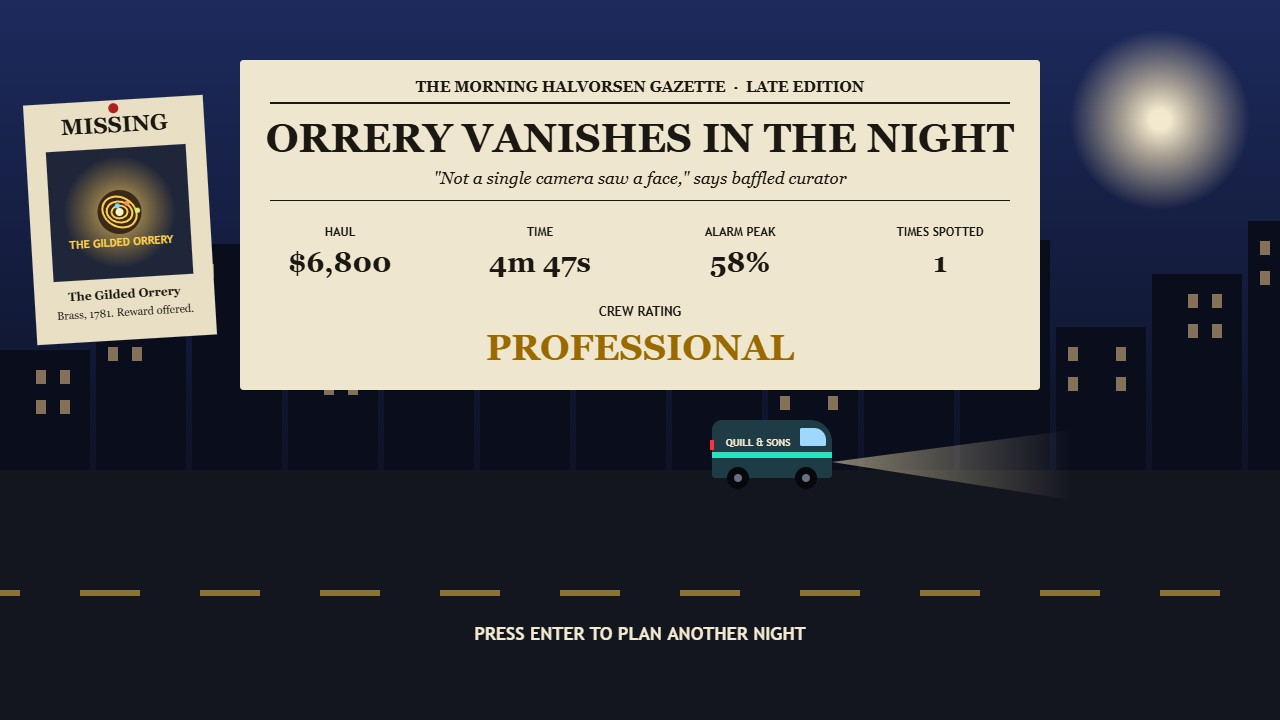
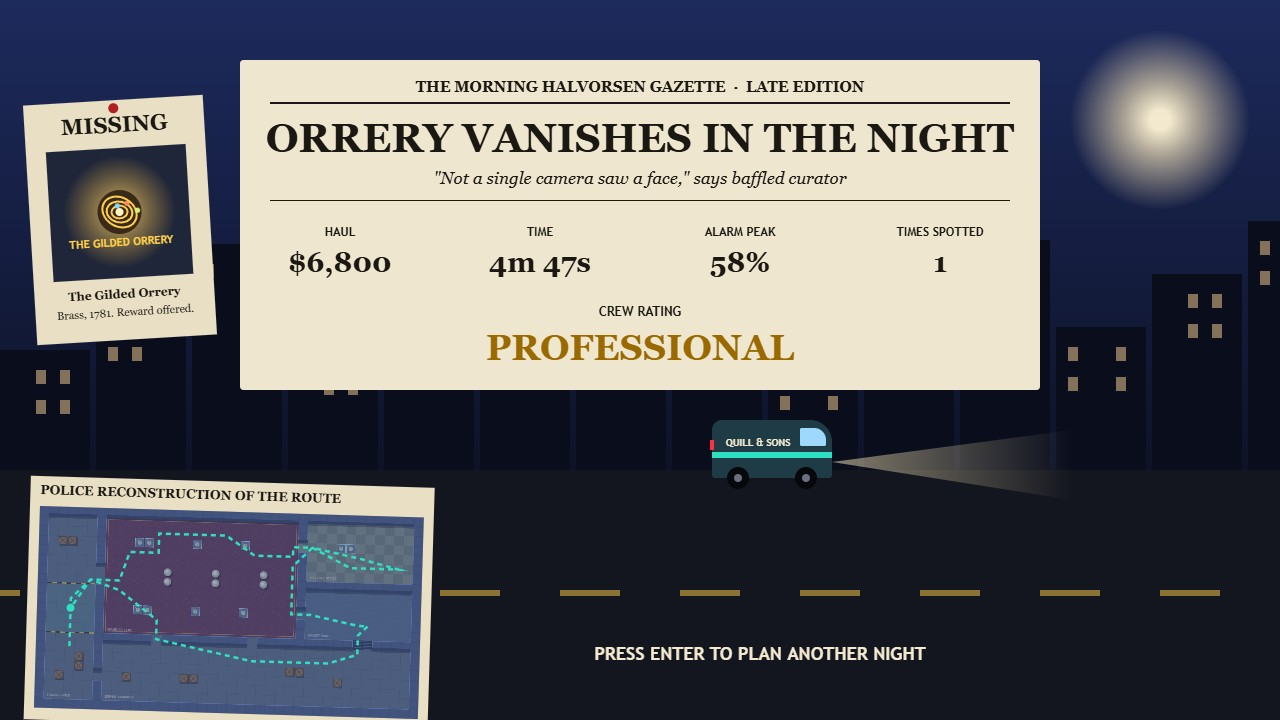
End screen: police reconstruction of the route walked

Changed region(s): [[0.0, 0.6417, 0.3438, 1.0], [0.375, 0.8556, 0.7188, 0.9167]]

diff --git a/game/src/render/screens.js b/game/src/render/screens.js
@@ -206,6 +206,42 @@ function drawShop(g, loadout) {
   return buttons;
 }
 
+/** The police reconstruction: a small blueprint with the route the thief really walked tonight. */
+function drawReconstruction(g, floorplan, trail, x, y) {
+  const s = 0.3;
+  const w = floorplan.width * s;
+  const h = floorplan.height * s;
+  g.save();
+  g.translate(x, y);
+  g.rotate(0.03);
+  g.fillStyle = '#e9dfc4';
+  g.fillRect(-10, -30, w + 20, h + 42);
+  g.fillStyle = '#1b1712';
+  g.font = 'bold 13px Georgia, serif';
+  g.textAlign = 'left';
+  g.fillText('POLICE RECONSTRUCTION OF THE ROUTE', 0, -12);
+  g.globalAlpha = 0.85;
+  g.drawImage(floorplan, 0, 0, w, h);
+  g.globalAlpha = 1;
+  g.fillStyle = 'rgba(20,60,140,0.35)';
+  g.fillRect(0, 0, w, h);
+  if (trail.length > 1) {
+    g.strokeStyle = '#2fe0c0';
+    g.lineWidth = 2.5;
+    g.setLineDash([5, 4]);
+    g.beginPath();
+    trail.forEach((p, i) => (i ? g.lineTo(p.x * s, p.y * s) : g.moveTo(p.x * s, p.y * s)));
+    g.stroke();
+    g.setLineDash([]);
+    const end = trail[trail.length - 1];
+    g.fillStyle = '#2fe0c0';
+    g.beginPath();
+    g.arc(end.x * s, end.y * s, 4, 0, Math.PI * 2);
+    g.fill();
+  }
+  g.restore();
+}
+
 /** A pinned police bulletin with the Orrery on it: MISSING if it got away, RECOVERED if not. */
 function drawMissingPoster(g, cx, cy, time, missing) {
   g.save();
@@ -233,7 +269,7 @@ function drawMissingPoster(g, cx, cy, time, missing) {
 }
 
 /** The morning edition: headline, the night's numbers and the rating. */
-export function drawEnd(g, score, reason, time) {
+export function drawEnd(g, score, reason, time, floorplan, trail) {
   g.fillStyle = '#0b0f1e';
   g.fillRect(0, 0, VIEW.width, VIEW.height);
   const sky = g.createLinearGradient(0, 0, 0, 720);
@@ -340,5 +376,9 @@ export function drawEnd(g, score, reason, time) {
   g.fillText(score.rating, 640, 360);
   g.fillStyle = PALETTE.hudInk;
   g.font = 'bold 18px "Trebuchet MS", sans-serif';
-  g.fillText('PRESS ENTER TO PLAN ANOTHER NIGHT', 640, 640);
+  if (floorplan) drawReconstruction(g, floorplan, trail, 40, 506);
+  g.fillStyle = PALETTE.hudInk;
+  g.font = 'bold 18px "Trebuchet MS", sans-serif';
+  g.textAlign = 'center';
+  g.fillText('PRESS ENTER TO PLAN ANOTHER NIGHT', 760, 660);
 }

diff --git a/game/src/shots.js b/game/src/shots.js
@@ -108,6 +108,8 @@ function getawayRun() {
   run.thief.carrying = true;
   run.alarm.peak = 58;
   run.spottedCount = 1;
+  trail(run, [[3, 14], [3, 9], [5, 7], [8, 7], [9, 4], [12, 4], [12, 2], [19, 2], [22, 4], [26, 4], [26, 3], [28, 3], [32, 5], [37, 5], [33, 4],
+    [28, 3], [26, 5], [26, 10], [28, 10], [33, 11], [34, 11], [33, 12], [33, 14], [30, 15], [22, 15], [12, 13], [12, 11], [8, 8], [5, 7], [3, 10]]);
   return run;
 }
 

diff --git a/game/src/render/renderer.js b/game/src/render/renderer.js
@@ -67,5 +67,5 @@ export function renderFrame(renderer, app, time, mouse) {
   else if (app.phase === PHASE.HEIST) {
     drawWorld(g, renderer, app.run, time, mouse);
     drawHud(g, app.run, time);
-  } else drawEnd(g, scoreRun(app.run), app.run.endReason, time);
+  } else drawEnd(g, scoreRun(app.run), app.run.endReason, time, renderer.floorplan, app.run.routeTrail);
 }
